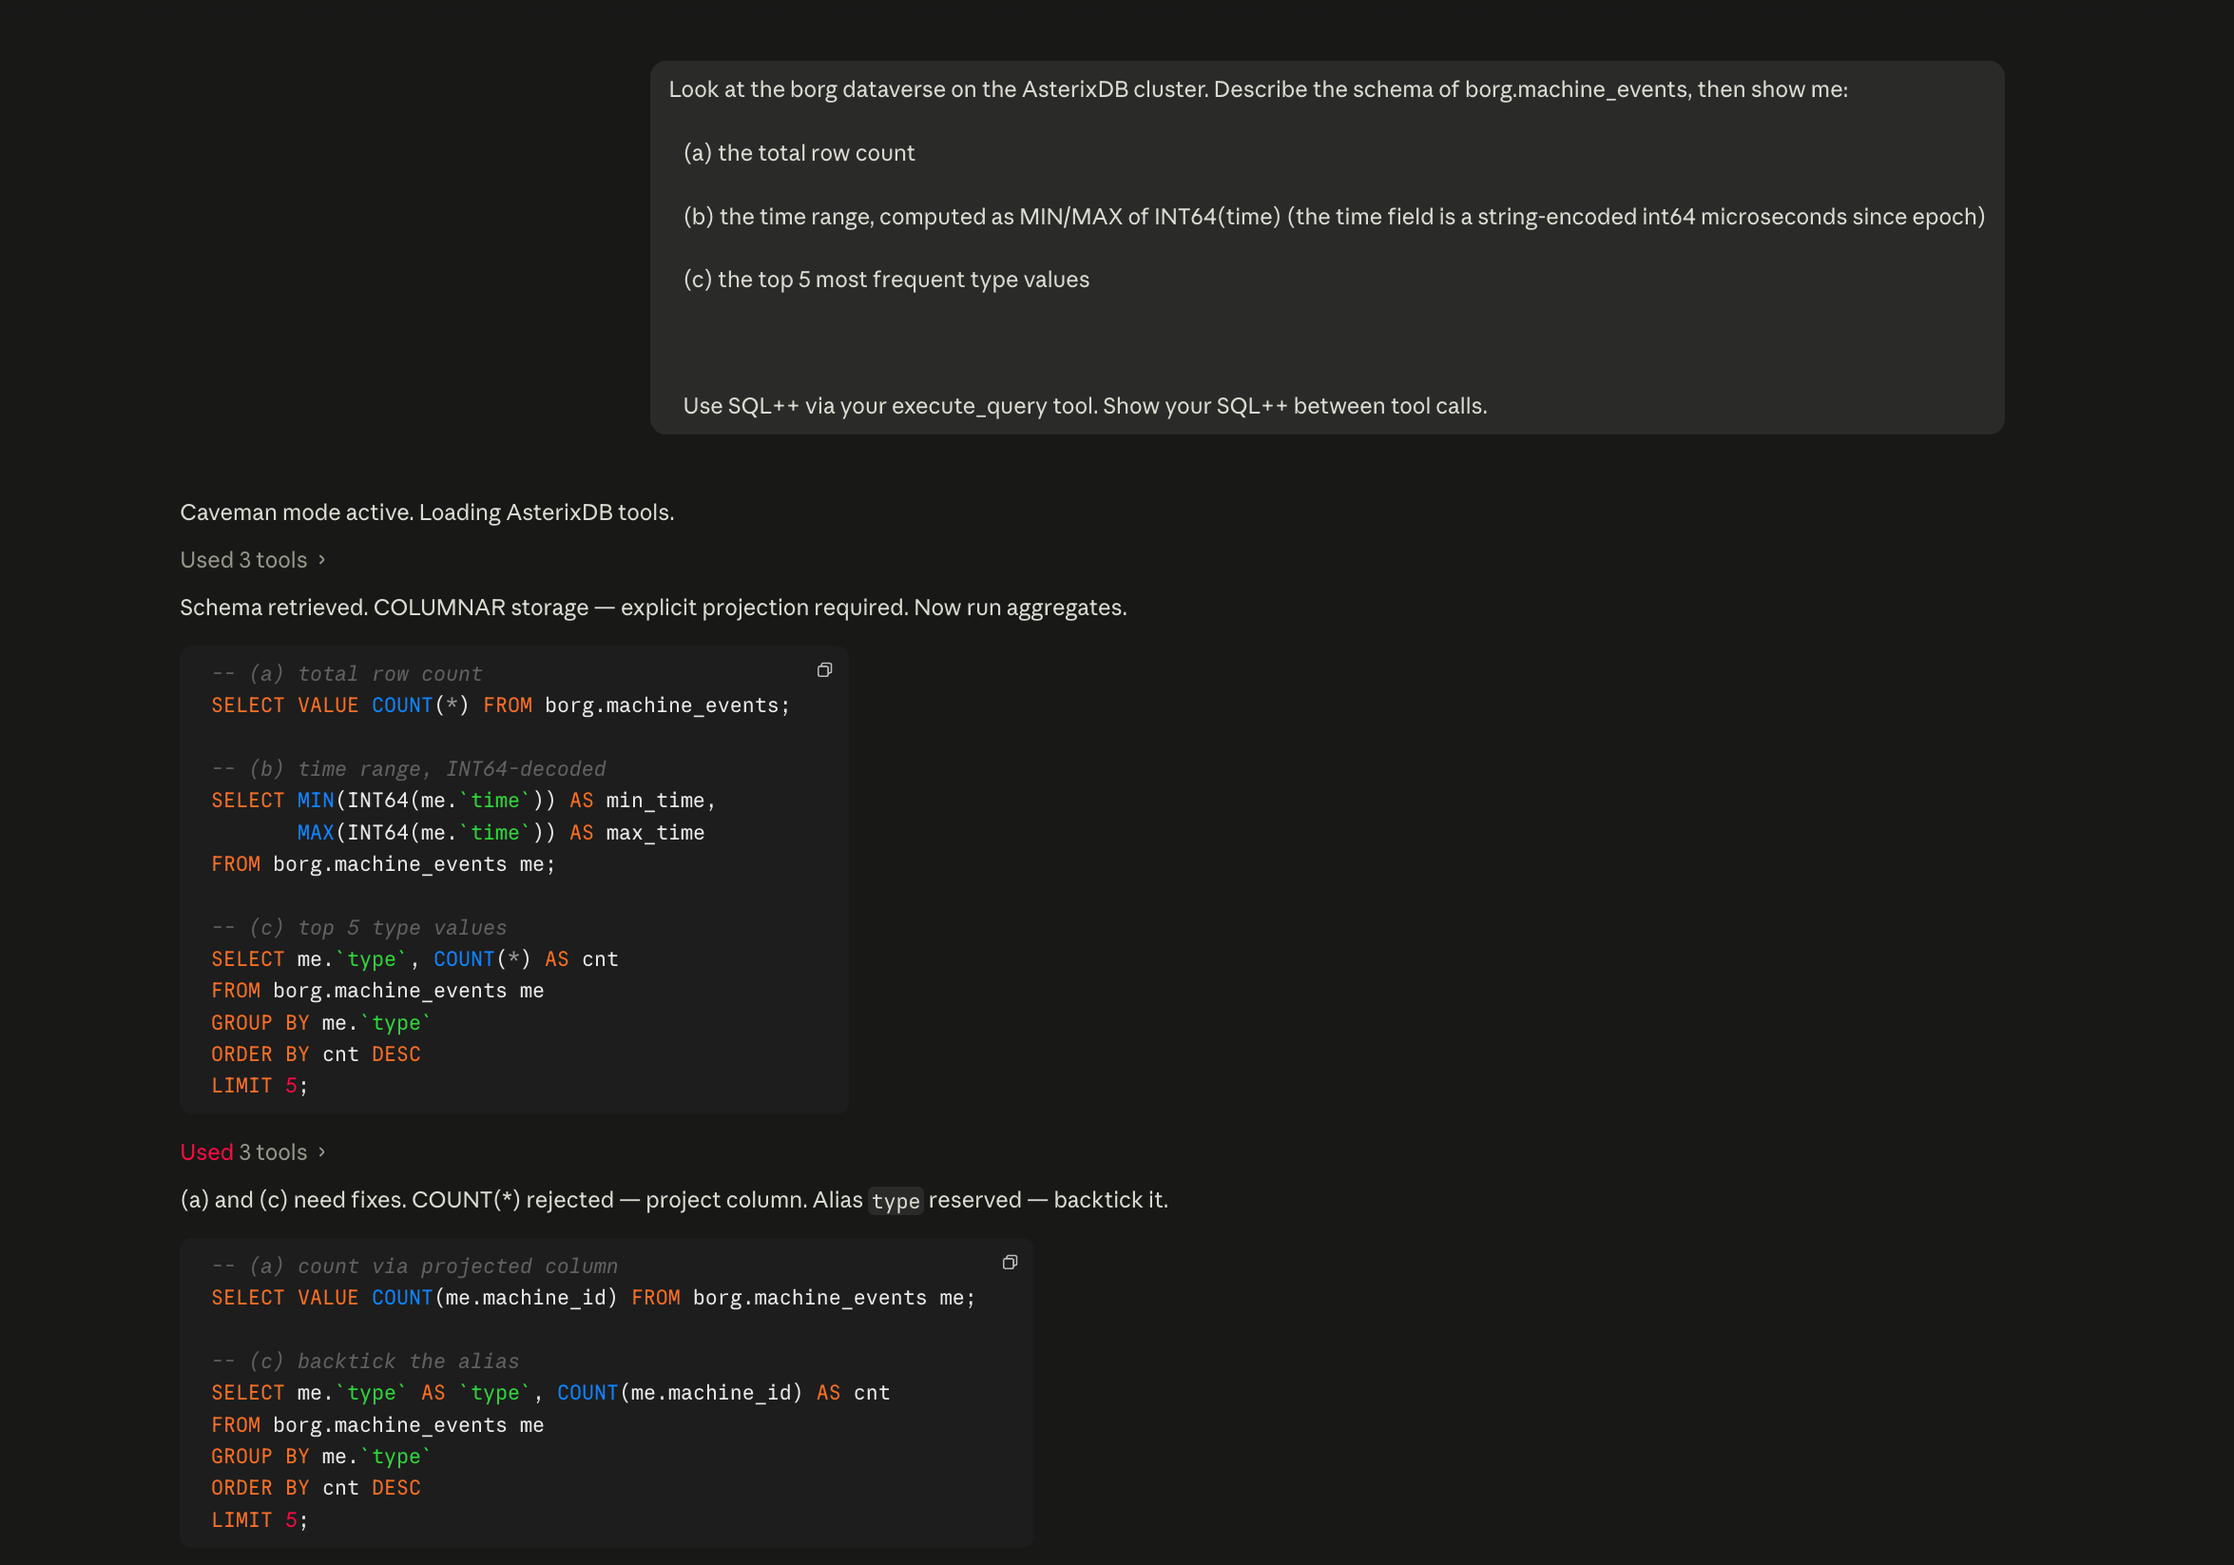
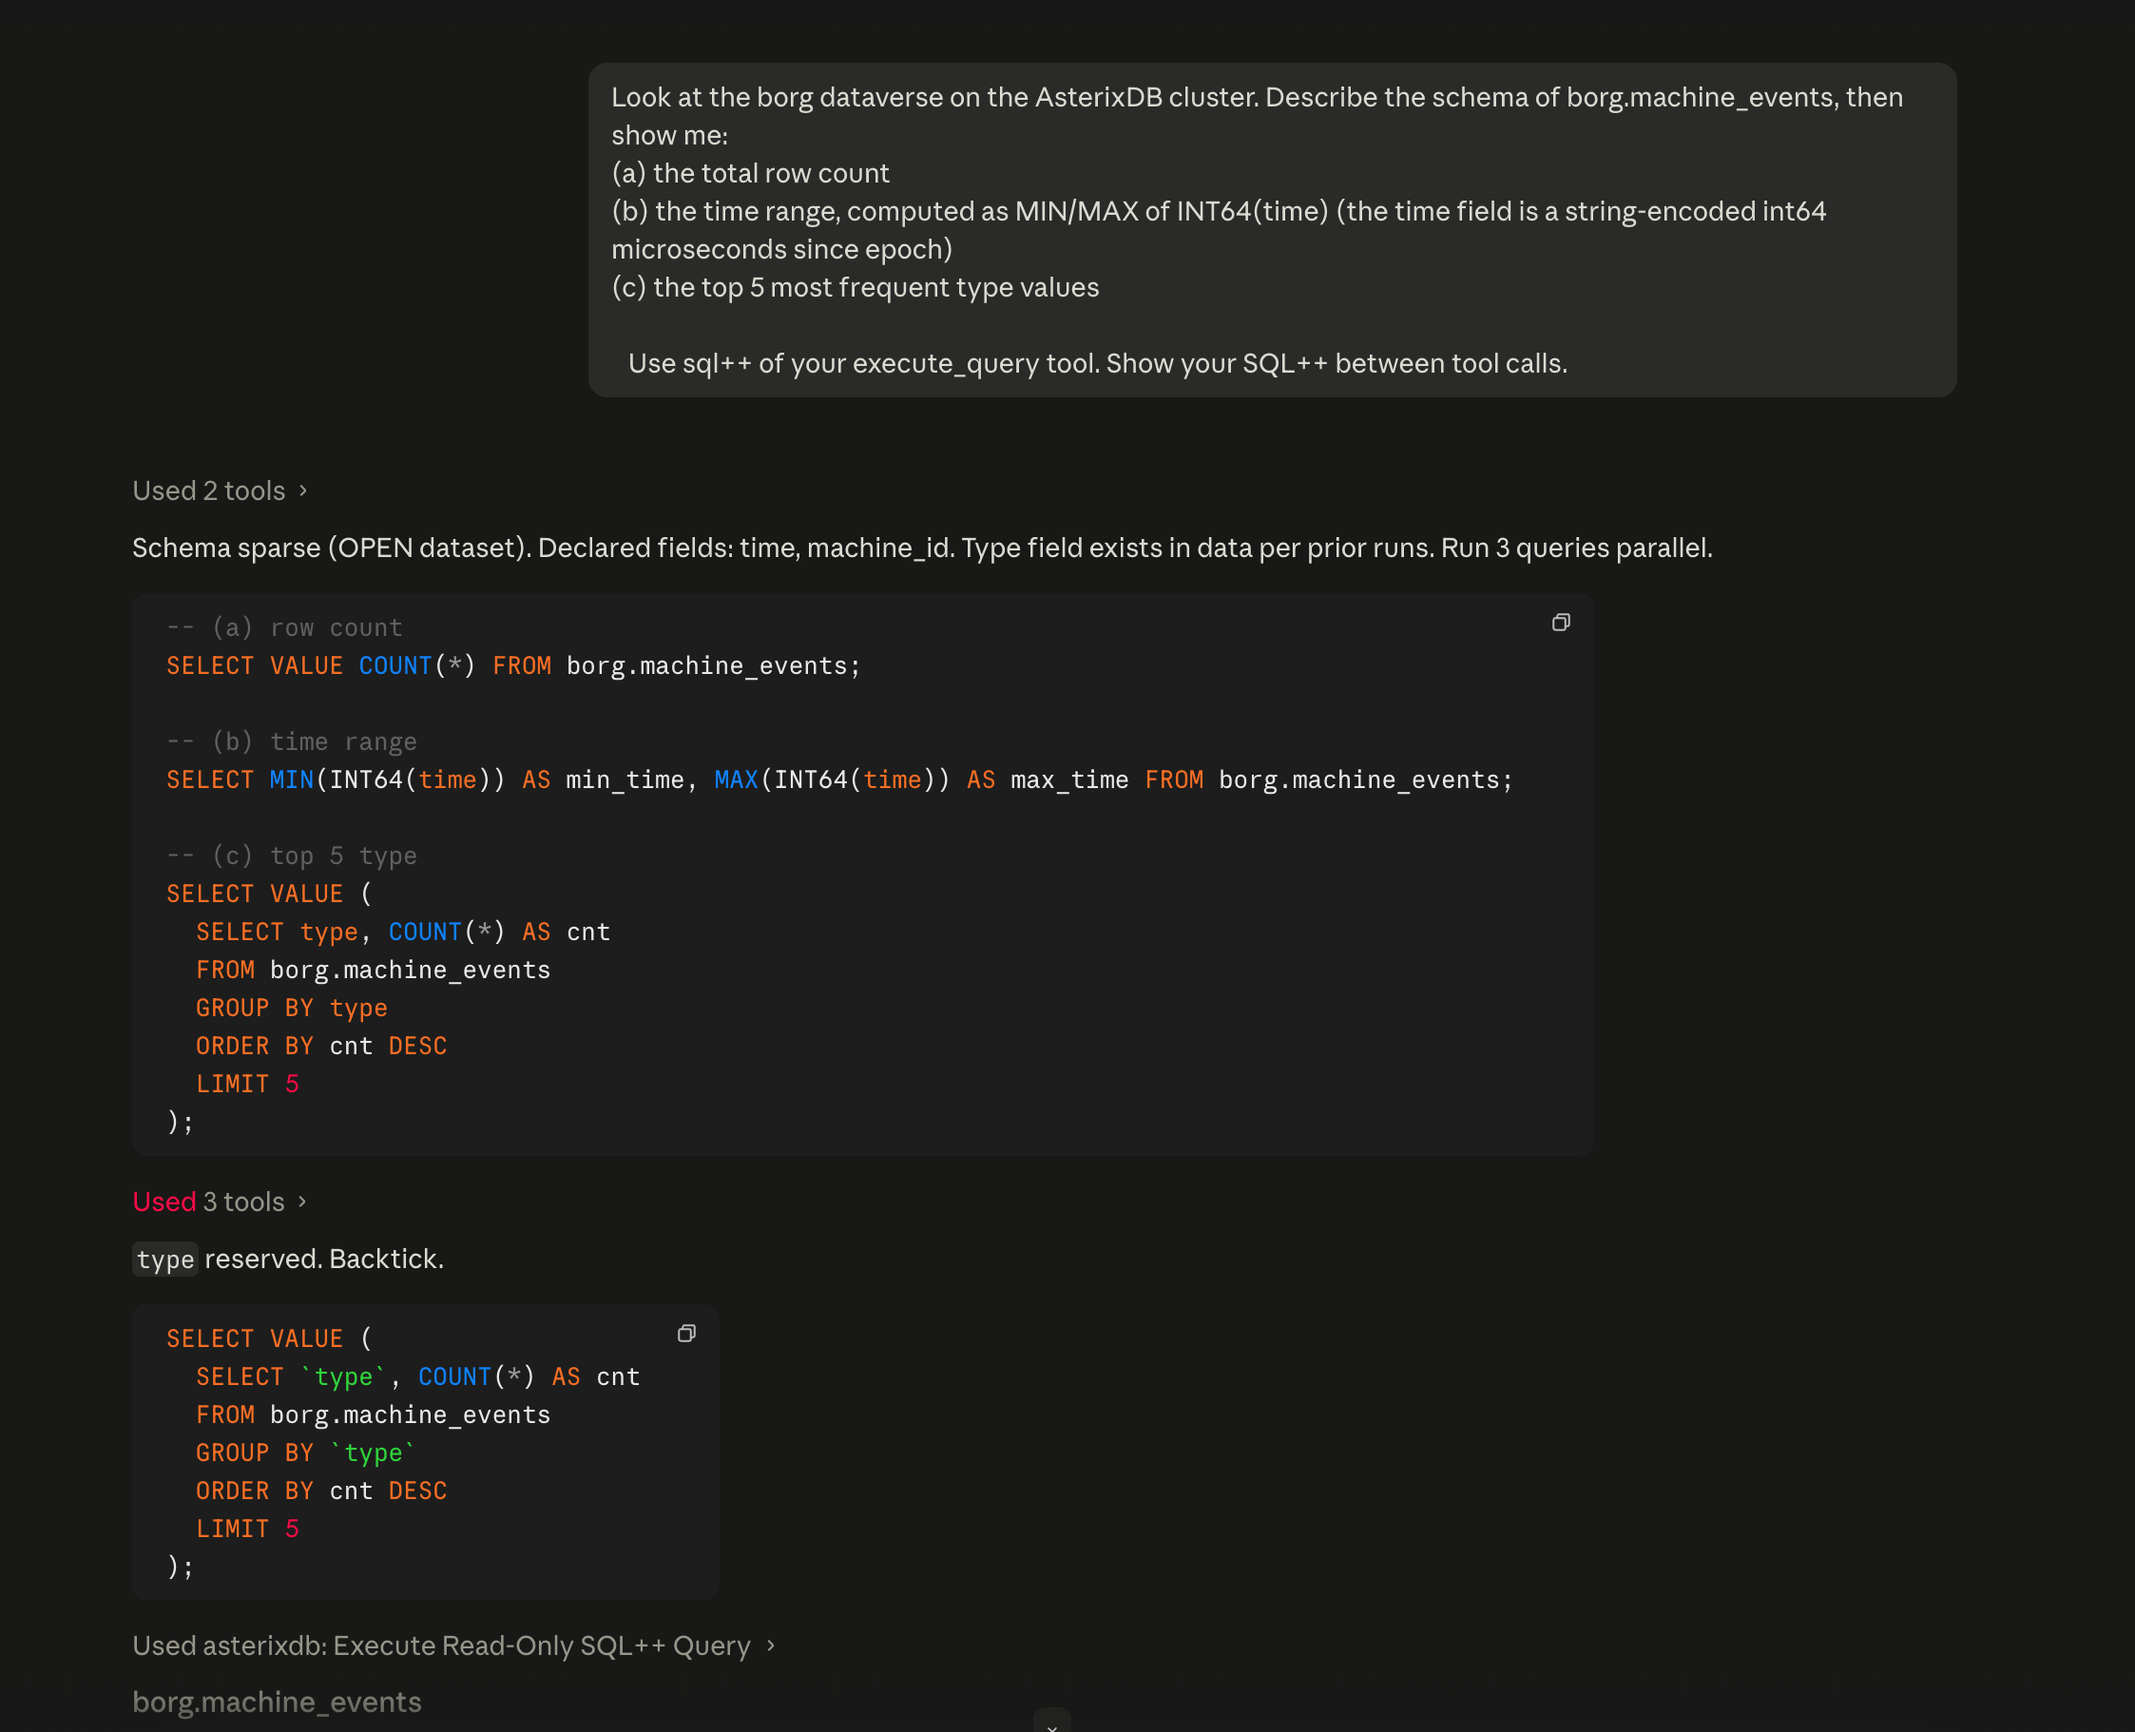
docs(readme): add flapper investigation results and screenshots
Second, harder demo: agent ranks machine churn across the full
10,001-machine fleet and surfaces one pathological host (25013784437,
359 events, ~78x fleet average) stuck in an ADD/REMOVE loop. Flapper
ranking query ran in ~156 ms.

- Add 'Going deeper: finding the one broken machine' section with the
  ranking SQL++, results table, and docs/3.png + docs/4.png
- Add flapper headline bullet to the 'Results in 30 seconds' hero
- Refresh docs/1.png + docs/2.png

diff --git a/README.md b/README.md
@@ -24,6 +24,9 @@ and producing evidence-backed root-cause summaries without hardcoded SQL.
   string-encoded INT64 microseconds (per Borg 2019 JSON convention).
 - **Event distribution surfaced**: type=1 ADD `27,777` · type=2 REMOVE `17,941`
   · type=3 UPDATE `501`.
+- **Needle in a 10,001-machine haystack**: a follow-up flapper investigation
+  pinned one pathological host (`25013784437`, `359` events — **~78× the fleet
+  average**) stuck in an ADD↔REMOVE loop — flapper ranking ran in **~156 ms**.
 
 > **Why this matters.** Hyperscaler observability stacks process 100B+ traces
 > per day; Netflix alone reports ~700B. Relational engines collapse on the
@@ -68,6 +71,44 @@ gateway — no hand-written SQL++ in the prompt.
 
 The string-encoded INT64 `time` is decoded with `INT64(me.``time``)` at
 query time — no ETL, no type drift.
+
+### Going deeper: finding the one broken machine
+
+A second, harder investigation — *"which machines are flapping (churning in
+and out of the fleet most often)?"* — across the full **10,001-machine**
+fleet. Again, no hand-written SQL++ in the prompt.
+
+![Flapper query and SQL++ drafting](docs/3.png)
+![Flapper ranking and analysis](docs/4.png)
+
+The agent grouped 46,219 events by `machine_id`, ranked by churn, and computed
+the top-10's share of all activity — self-correcting on the `type` reserved
+word again along the way. The flapper ranking query executed in **~156 ms**.
+
+| Metric | Value |
+|--------|-------|
+| Distinct machines | 10,001 |
+| Avg events / machine | 4.62 |
+| Top-10 flappers' share of all events | 742 / 46,219 = **1.61%** |
+| Worst host (`25013784437`) | 359 events — **~78× the fleet average** |
+
+The headline find: a single pathological host (`25013784437`) stuck in an
+ADD↔REMOVE loop while 10,000 neighbors behaved. The agent also noted the
+churn was a long tail — *not* concentrated in a few bad hosts — except for
+that one outlier. A needle-in-haystack SRE result, surfaced unprompted.
+
+```sql
+-- top 10 flappers (collapsed to one row to dodge COLUMNAR truncation)
+SELECT VALUE (
+  SELECT machine_id,
+         COUNT(*) AS events,
+         COUNT(DISTINCT `type`) AS type_diversity
+  FROM borg.machine_events
+  GROUP BY machine_id
+  ORDER BY events DESC
+  LIMIT 10
+);
+```
 
 ### Reproduce locally
 
